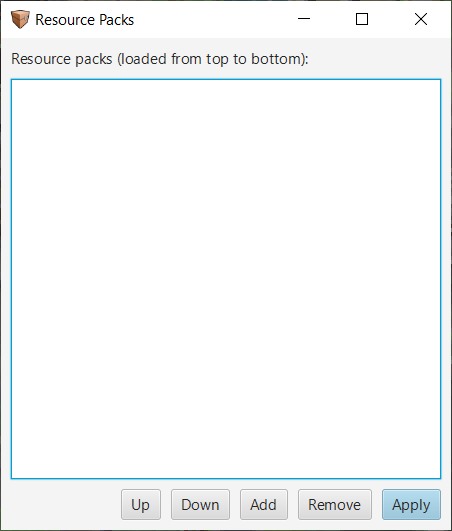
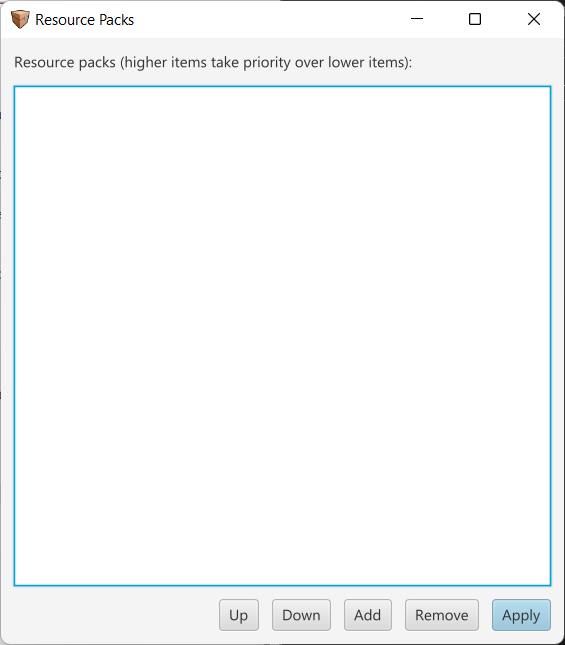
Update images and phrasing (#57)

diff --git a/ChunkyDocs/docs/user_interface/index.md b/ChunkyDocs/docs/user_interface/index.md
@@ -135,7 +135,7 @@ This tab has a few options in it...
 
 ![Resource pack manager](../img/user_interface/right_pane/chunky_resource_packs0.png)
 
-Should be noted that the phrasing here is confusing. The load order is bottom to top meaning that packs on top will override packs on the bottom.
+Items higher in the list take priority over lower items.
 
 - `Up` - Move selected pack up
 - `Down` - Move selected pack down
@@ -160,7 +160,7 @@ Should be noted that the phrasing here is confusing. The load order is bottom to
 	</thead>
 	</table>
 
- 3. `Left Click` a resource pack in the list and use `Up`/`Down` to move resource packs. Packs higher in the list will have their textures take priority over those below, including the latest Minecraft .jar which should be loaded regardless (would be noted in the `debug console`).
+ 3. `Left Click` a resource pack in the list and use `Up`/`Down` to move resource packs. Packs higher in the list will take priority over those below, including the latest Minecraft .jar which should be loaded by default (would be noted in the `debug console`).
 
 	![Resource pack manager](../img/user_interface/right_pane/chunky_resource_packs_order.png)
 
